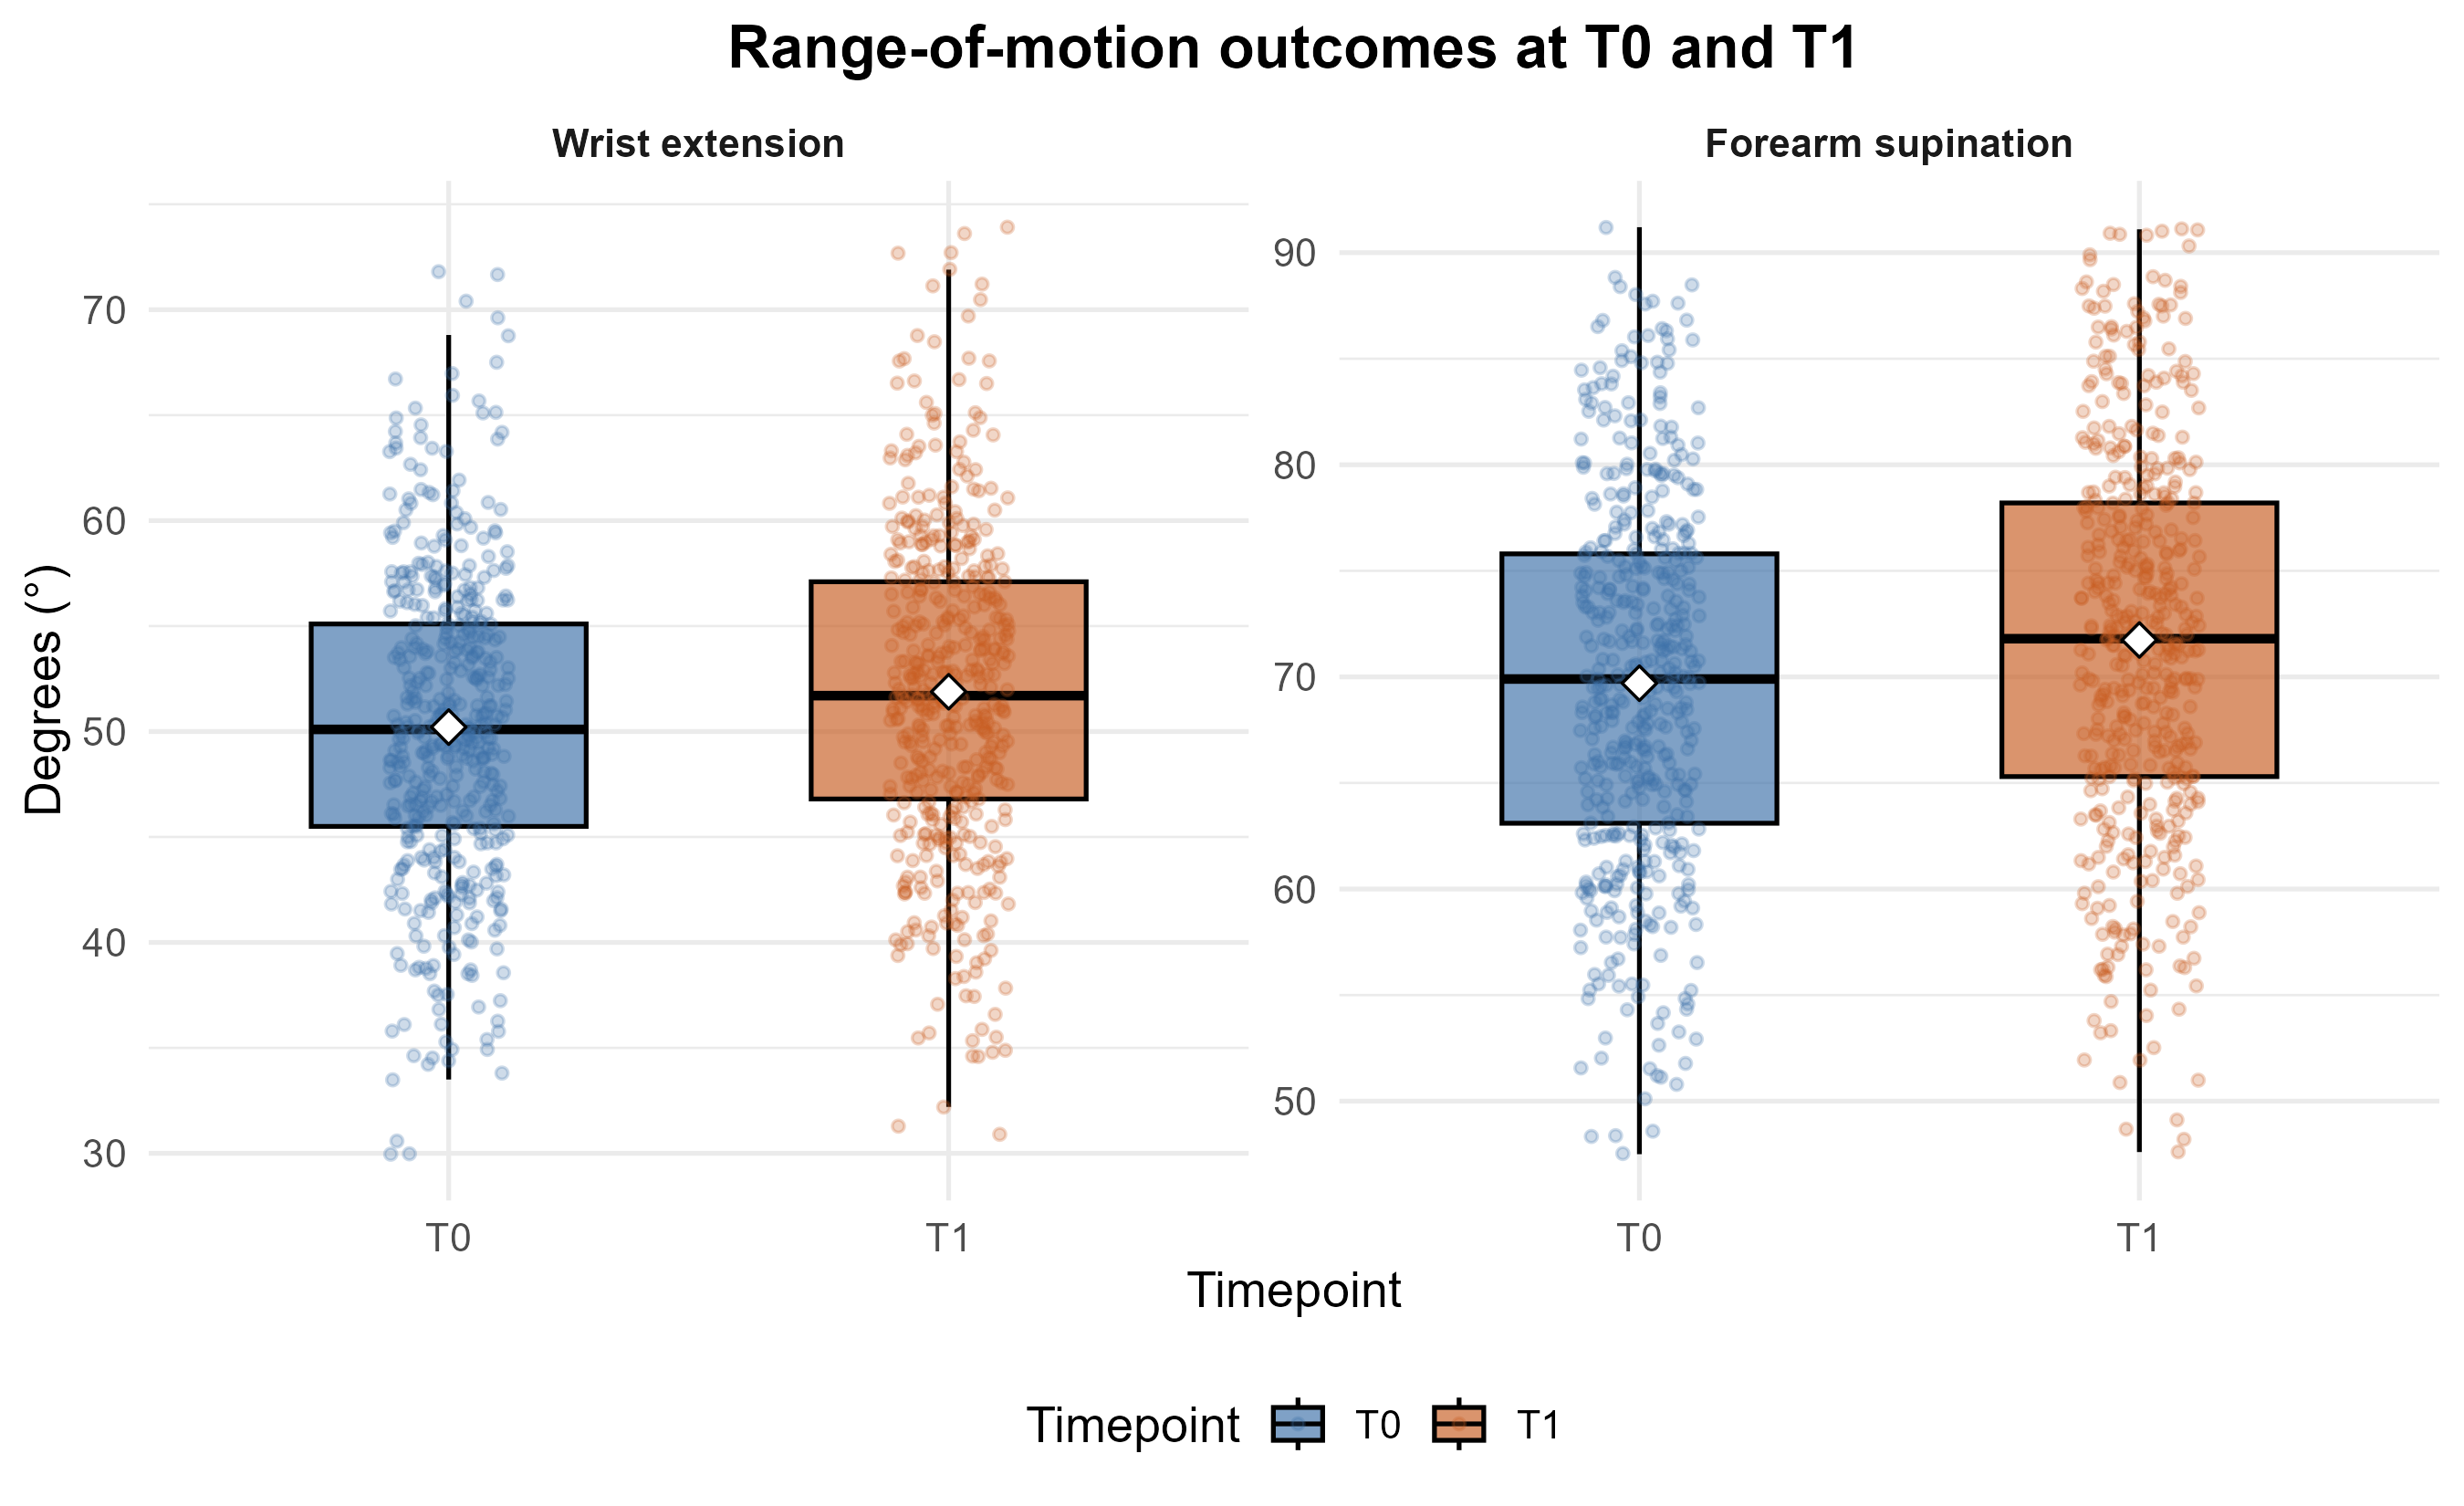
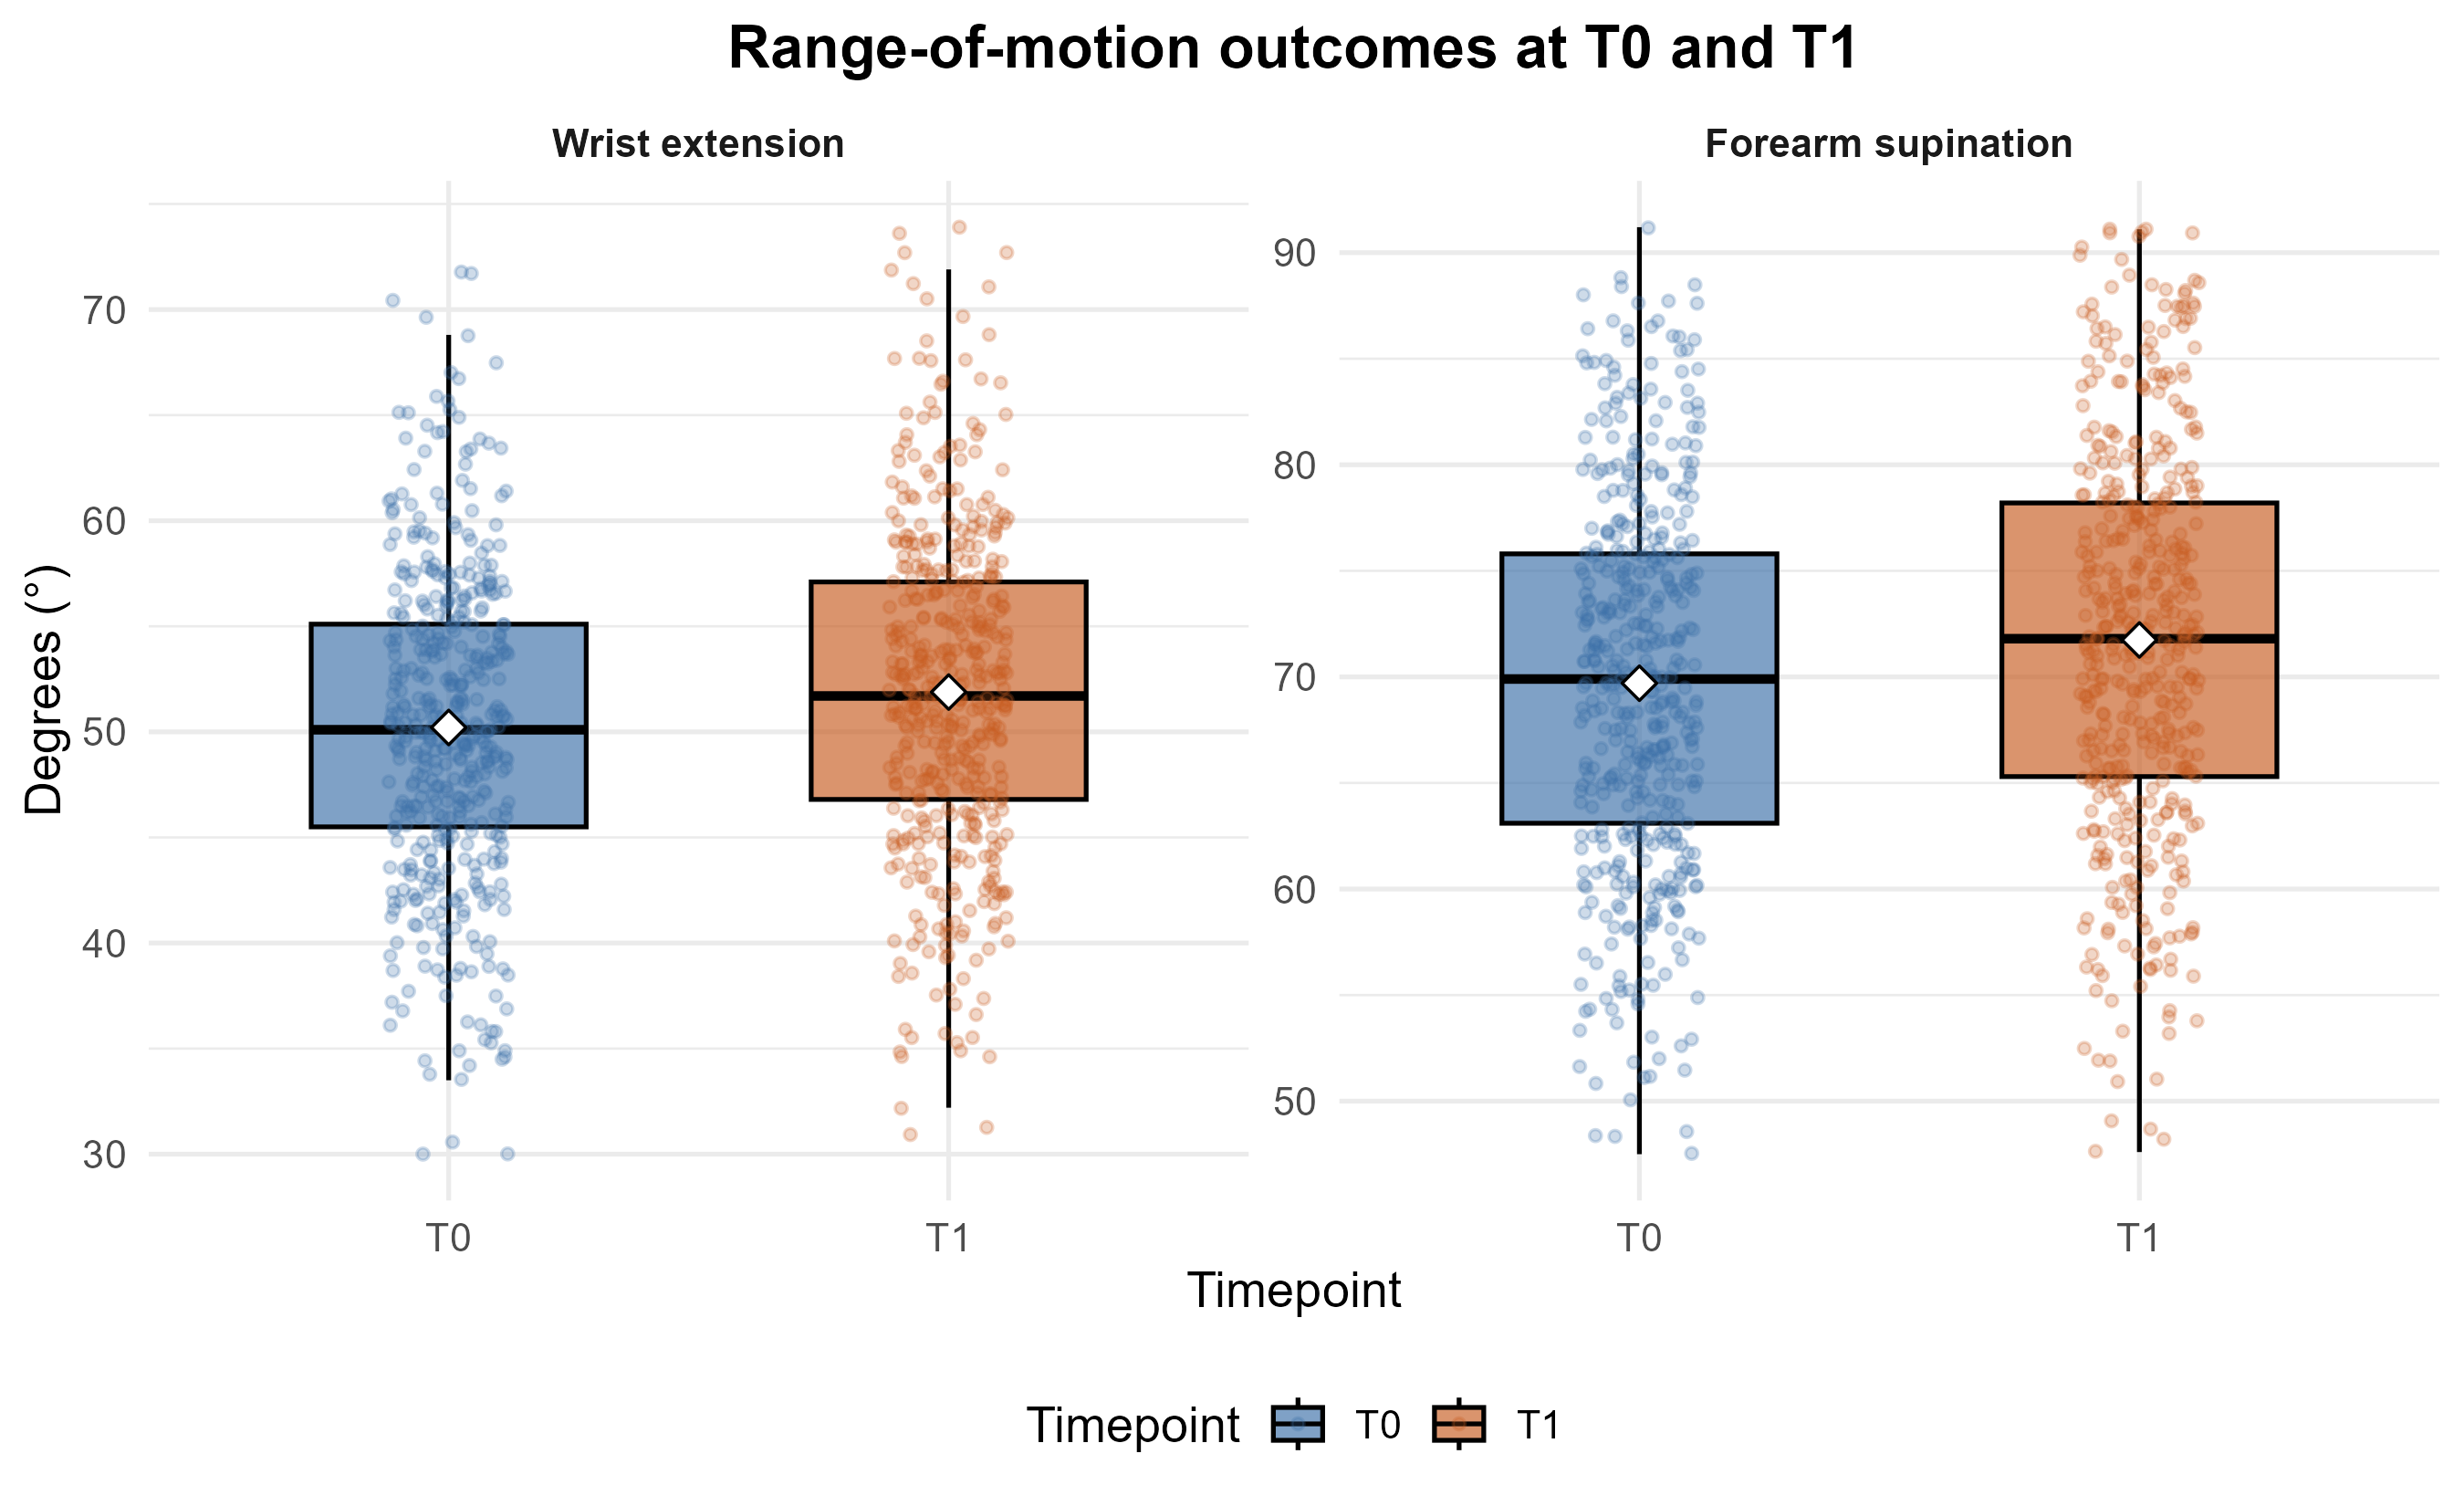
Create the final Readme and rename the final HTML

diff --git a/readme.md b/readme.md
@@ -1,193 +1,256 @@
-# Range of Motion Analysis Project
+# Range of Motion Changes After the Ostéart Prevention Program
 
-**Student:** DUPLAIX JAHINNA
-
-## Project overview
-
-This project analyses pre-post changes in wrist extension and forearm supination among leatherworkers after a prevention program.:
-- wrist extension
-- forearm supination
-
-The workflow is divided into two complementary parts:
-- **Python** is used for data cleaning, data validation, outcome preparation, and exploratory outputs
-- **RStudio** is used for the final statistical analyses and the final report
+Author: Jahinna Duplaix  
+Course: MAM2ADMM  
+Project type: Movement analysis project using Python and R  
+Main report: `duplaix.jahinna.html`
 
 ---
 
-## Objective
+## 1. Project overview
 
-The main objective of the project is to prepare and analyse repeated range-of-motion measurements collected at two timepoints:
-- **T0**: baseline
-- **T1**: follow-up
+This project analyses range-of-motion changes in leather workers who participated in the 6-month Ostéart prevention program.
 
-The project aims to:
-- clean and validate the dataset
-- verify the longitudinal structure of the data
-- create a complete-case analysis dataset
-- compute change scores between `T0` and `T1`
-- produce descriptive and exploratory outputs
-- perform the final statistical analyses in RStudio
+The dataset was collected between 2023 and 2025 among 473 leather workers. The Ostéart program was developed as an occupational prevention program focused on upper-limb musculoskeletal disorders, including carpal tunnel syndrome.
+
+The analysis focuses on two range-of-motion outcomes:
+
+- wrist extension, expressed in degrees;
+- forearm supination, expressed in degrees.
+
+Each participant was measured at two timepoints:
+
+- `T0`: baseline measurement;
+- `T1`: follow-up measurement after the 6-month prevention program.
+
+The objective was to describe within-participant changes between T0 and T1.
 
 ---
 
-## Project structure
+## 2. Research question
+
+**What changes in wrist extension and forearm supination are observed after the 6-month Ostéart prevention program in leather workers?**
+
+The wording is intentionally cautious because the study used a pre-post design without a control group.
+
+Therefore, the analysis can describe observed within-participant changes between T0 and T1, but it cannot establish a causal effect of the prevention program.
+
+---
+
+## 3. Outcomes
+
+The primary outcome variables are the within-participant change scores:
+
+- `delta_wrist_extension_deg` = wrist_extension_deg_T1 - wrist_extension_deg_T0; 
+- `delta_forearm_supination_deg` = forearm_supination_deg_T1 - forearm_supination_deg_T0.
+
+## 4. Project structure
+
+The project is organized as follows:
 
 ```text
-DUPLAIX.JAHINNA/
-│── readme.md
-│── requirements.txt
-│── main.ipynb
-│── main.Rmd
-│── main.Rproj
-├── data/
-│   ├── raw/
-│   │   └── TMinstitute_prevention_base_2025.xlsx
-│   └── processed/
-│       └── analysis_dataset.csv
-└── results/
-    ├── figures_exploratory/
-    └── tables_exploratory/
+DUPLAIX.JAHINNA/                                          : root folder of the project and ZIP archive
+├── .gitignore                                            : files and folders ignored by Git
+├── readme.md                                             : project documentation and reproduction instructions
+├── LICENCE                                               : code licence and data reuse restrictions
+├── requirements.txt                                      : Python package requirements
+├── main.ipynb                                            : entry point to run all Python analyses
+├── main.Rmd                                              : entry point to run all R analyses
+├── main.Rproj                                            : RStudio project file
+├── duplaix.jahinna.html                                  : final HTML report 
+├── data/                                                 : data files needed to run the project
+│   ├── raw/                                              : original data files
+│   │   └── TMinstitute_prevention_base_2025.xlsx 
+│   └── processed/                                        : processed data files created by Python
+│       └── analysis_dataset.csv                    
+└── results/                                              : outputs generated by the analyses
+    ├── tables_exploratory/                               : exploratory tables created in Python
+    │   └── analysis_summary_table.csv               
+    ├── figures_exploratory/                              : exploratory figures created in Python
+    │   ├── hist_delta_wrist_extension_deg_global.png
+    │   └── hist_delta_forearm_supination_deg_global.png
+    ├── final_tables/                                     : final statistical tables created in R
+    │   ├── main_analysis_results.csv
+    │   ├── main_analysis_results.html
+    │   ├── sensitivity_analysis_results.csv
+    │   └── sensitivity_analysis_results.html
+    │                               
+    └── final_figures/                                     : final figures created in R
+        └── final_boxplot_range_of_motion.png
 ```
 
-## Dataset
+### 4.1 Data file description
 
-The project is based on a range-of-motion dataset containing repeated measurements for each participant at two timepoints:
-- **T0**: baseline
-- **T1**: follow-up
+The data files used in this project are stored in the `data/` folder.
 
-The cleaned long-format dataset is used to verify the structure of the repeated measurements before reshaping the data into wide format.
+The raw Excel file `data/raw/TMinstitute_prevention_base_2025.xlsx` was provided by the creators of the Ostéart prevention program for academic analysis.
 
-The final analysis dataset contains one row per participant and complete paired measurements for both movement outcomes.
+The processed dataset `data/processed/analysis_dataset.csv` is created by `main.ipynb` and then used by `main.Rmd` for the final statistical analysis.
 
----
+After Python data preparation, the final complete-case dataset contains 461 participants.
 
-## Python workflow
+### 4.2 Output file description
 
-The Python notebook is used to:
+The `results/` folder contains the outputs generated by the Python and R analyses.
 
-1. read and inspect the raw dataset
-2. clean and standardize the variables
-3. identify implausible raw values
-4. remove exact duplicate rows
-5. inspect incomplete observations
-6. verify the longitudinal structure of the dataset
-7. exclude participants with an invalid longitudinal structure
-8. reshape the valid dataset into wide format
-9. create the final complete-case analysis dataset
-10. compute the primary outcome variables
-11. inspect extreme change scores
-12. produce descriptive tables and exploratory figures
-13. export the final dataset for the statistical analyses in RStudio
+The folder `results/tables_exploratory/` contains exploratory tables created in Python.
 
----
+The file `results/tables_exploratory/analysis_summary_table.csv` contains the descriptive summary table for the main movement variables.
 
-## Main variables
+The folder `results/figures_exploratory/` contains exploratory figures created in Python.
 
-The final analysis dataset includes the following variables:
+The files `hist_delta_wrist_extension_deg_global.png` and `hist_delta_forearm_supination_deg_global.png` show the distributions of the change scores for wrist extension and forearm supination.
 
-- `participant_id`: participant identifier
-- `wrist_extension_deg_T0`: wrist extension at baseline
-- `wrist_extension_deg_T1`: wrist extension at follow-up
-- `forearm_supination_deg_T0`: forearm supination at baseline
-- `forearm_supination_deg_T1`: forearm supination at follow-up
-- `delta_wrist_extension_deg`: wrist extension change between `T0` and `T1`
-- `delta_forearm_supination_deg`: forearm supination change between `T0` and `T1`
+The folder `results/final_tables/` contains final statistical tables created in R.
 
-The delta variables are computed as:
-- `delta_wrist_extension_deg = wrist_extension_deg_T1 - wrist_extension_deg_T0`
-- `delta_forearm_supination_deg = forearm_supination_deg_T1 - forearm_supination_deg_T0`
+The files `main_analysis_results.csv` and `main_analysis_results.html` contain the final results of the main paired analysis.
 
----
+The files `sensitivity_analysis_results.csv` and `sensitivity_analysis_results.html` contain the final results of the sensitivity analysis excluding anatomically flagged participants.
 
-## Data cleaning and preparation
+The folder `results/final_figures/` contains the final figure created in R.
 
-The Python workflow includes the following cleaning and preparation steps:
-- standardization of participant identifiers
-- harmonization of timepoint labels
-- conversion of movement variables to numeric format
-- identification of implausible raw values
-- removal of exact duplicate rows
-- inspection of incomplete rows
-- validation of the longitudinal structure
-- exclusion of participants with invalid repeated-measure structure
-- creation of a complete-case analysis dataset
+The file `final_boxplot_range_of_motion.png` shows the final boxplot comparing T0 and T1 values for wrist extension and forearm supination.
 
-Participants with:
-- an invalid longitudinal structure
-- or incomplete movement data
+## 5. Data access and reuse
 
-are excluded before the final statistical analyses.
+The data used in this project were provided by the creators of the Ostéart prevention program for academic analysis.
 
----
+The data are not covered by the code licence.
 
-## Exploratory outputs
+The data files must not be reused, redistributed, modified, published, or shared outside the context authorized by the data providers.
 
-Python produces:
-- a descriptive summary table of the main movement variables
-- global histograms of the primary outcome variables
-- central-range histograms of the primary outcome variables
+Any reuse of the data requires prior permission from the data providers.
 
-These outputs are saved in:
-- `results/tables_exploratory/`
-- `results/figures_exploratory/`
+The licence included in this repository applies only to the code written for this academic project.
 
----
+## 6. Analysis workflow
 
-## Final analysis dataset
+The project uses two complementary analysis files:
 
-The processed dataset exported by Python is:
-- `data/processed/analysis_dataset.csv`
+`main.ipynb → main.Rmd → duplaix.jahinna.html`
 
-This file is used as the input dataset for the statistical analyses performed in RStudio.
+The Python notebook must be run first because it creates the processed dataset used by the R analysis.
 
----
+### Step 1: Python analysis
 
-## Statistical analyses
+Run:
 
-The final statistical analyses are performed in **RStudio** from the processed dataset exported by Python.
+`main.ipynb`
 
-These analyses are implemented in:
-- `main.Rmd`
+The Python notebook performs:
 
-The final HTML report will also be generated from `main.Rmd`.
+- import of the raw Excel dataset;
+- cleaning of participant identifiers;
+- cleaning and standardization of timepoint labels;
+- conversion of range-of-motion variables to numeric format;
+- removal of exact duplicate rows;
+- verification of the longitudinal T0/T1 structure;
+- exclusion of participants without a valid paired structure;
+- reshaping from long format to wide format;
+- exclusion of participants with incomplete paired data;
+- flagging of anatomically high values;
+- computation of T1-T0 change scores;
+- export of exploratory tables and figures;
+- export of the final processed dataset.
 
----
+The main output of the Python analysis is:
 
-## Software and libraries
+`data/processed/analysis_dataset.csv`
+
+### Step 2: R analysis
+
+Run:
+
+`main.Rmd`
+
+The R Markdown file performs:
+
+- import of the processed dataset;
+- verification of dataset dimensions and variables;
+- verification of missing values;
+- verification of the anatomical plausibility flag;
+- normality assessment using Q-Q plots and Shapiro-Wilk tests;
+- paired Wilcoxon signed-rank tests;
+- sensitivity analysis excluding anatomically flagged participants;
+- export of final statistical tables;
+- export of the final boxplot figure;
+- generation of the final HTML report.
+
+The final report generated from R is:
+
+`duplaix.jahinna.html`
+
+## 7. Required software
+
+This project requires both Python and R.
 
 ### Python
 
-The Python part uses:
-- `pandas`
-- `matplotlib`
-- `numpy`
-- `pathlib`
+The Python packages required for the notebook are listed in:
 
-### R / RStudio
+`requirements.txt`
 
-The R part is developed in:
-- `R`
-- `RStudio`
+To install them, run:
 
-Additional R packages will be listed in `main.Rmd`.
+```bash
+pip install -r requirements.txt
+```
 
----
+The main Python packages used are:
 
-## Reproducibility
+pandas
+numpy
+matplotlib
+openpyxl
+jupyter
 
-The project is designed to be reproducible.
+The R package environment is recorded in:
 
-The recommended order is:
+`renv.lock`
 
-1. run `main.ipynb` to clean and prepare the dataset
-2. use the exported processed dataset in `main.Rmd`
-3. knit `main.Rmd` to generate the final HTML report
+To restore the R environment, run:
 
----
+```bash
+install.packages("renv")
+renv::restore()
+```
 
-## Current status
+The main R packages used are:
 
-At this stage:
-- the Python data cleaning and preparation workflow has been completed
-- the final analysis dataset has been exported
-- the next step is to perform the final statistical analyses in RStudio
+readr
+dplyr
+tidyr
+ggplot2
+knitr
+kableExtra
+rmarkdown
+
+The project should be opened from the root folder:
+
+`DUPLAIX.JAHINNA/`
+
+The recommended way to open the R part of the project is to use:
+
+`main.Rproj`
+
+This helps ensure that relative paths are resolved from the correct project directory.
+
+## 8. Limitations
+
+This project has several limitations.
+
+First, the study used a pre-post design without a control group. Therefore, the analysis can describe observed within-participant changes between T0 and T1, but it cannot establish a causal effect of the Ostéart prevention program.
+
+Second, the clinical relevance of small numerical changes in range of motion should be interpreted cautiously. Statistically significant changes are not necessarily clinically meaningful changes.
+
+Third, some anatomically high values were identified during data preparation. These values were not automatically removed from the main analysis. They were flagged and assessed through a sensitivity analysis.
+
+Fourth, the analysis was limited to participants with complete paired data at T0 and T1. Participants with incomplete data were excluded from the final complete-case dataset.
+
+## 9. Use of assistance tools
+
+Generative AI tools were used as assistance during the preparation of this project.
+
+They were used to help structure the README, improve wording, check clarity, and support debugging or explanation of the code.
+
+The author remains responsible for the final content of the project, including the analysis workflow, statistical choices, code, results, and interpretation.